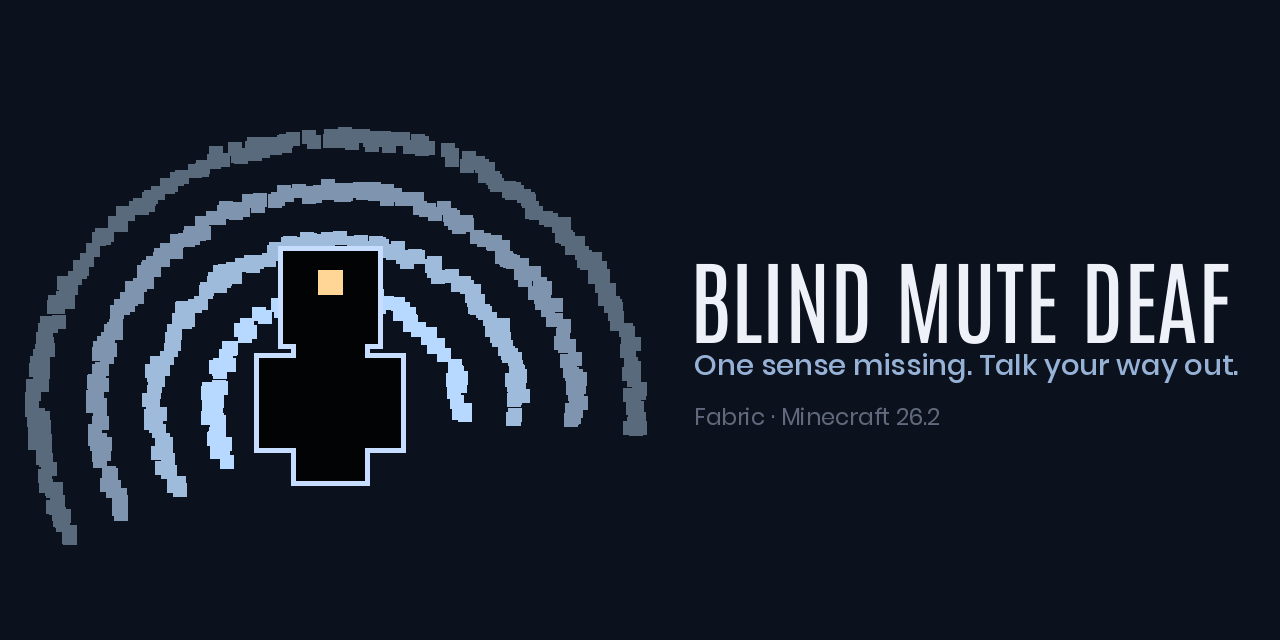
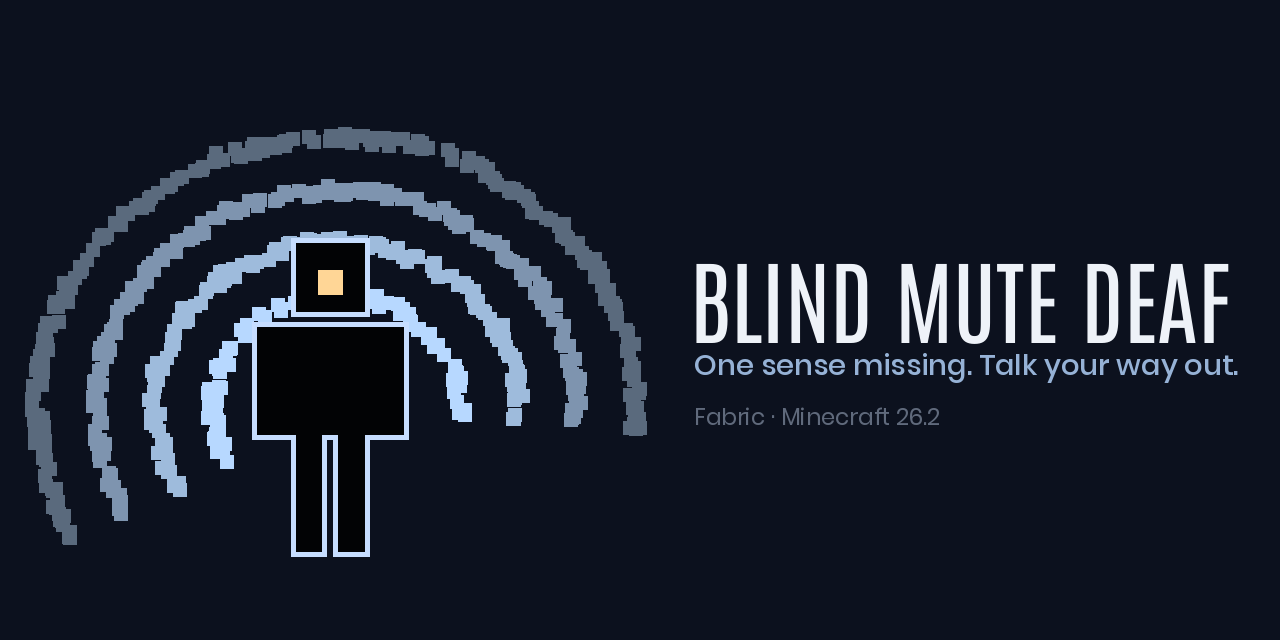
Sylwetka w proporcjach gracza MC: glowa 8x8, tulow 8x12, rece i nogi 4x12
Poprzednia byla szersza w glowie niz w tulowiu i nie miala nog - czytala sie jak krzyz.
Pol kratki szpary pod glowa, inaczej cala postac zlewa sie w pionek szachowy.

Changed region(s): [[0.1875, 0.375, 0.3438, 0.875]]

diff --git a/tools/make_art.py b/tools/make_art.py
@@ -33,8 +33,20 @@ ZRODLO = (255, 214, 150)     # jedyny cieply punkt na calej grafice - oko samo d
 ZIARNO = 11                  # wybrane z kilkunastu; reszta ukladala sie w rowniejsze, nudniejsze luki
 
 FRONTY = ((95, 255), (140, 220), (185, 175), (230, 125))   # (promien, jasnosc)
-# Blokowa postac: glowa, tulow, dwie rece. Wspolrzedne wzgledem srodka.
-CZESCI = ((-40, -118, 40, -40), (-30, -40, 30, 66), (-58, -36, -30, 40), (30, -36, 58, 40))
+# Postac w proporcjach modelu gracza z Minecrafta, liczonych w pikselach skina:
+# glowa 8x8, tulow 8x12, rece i nogi po 4x12 - czyli 16 szerokosci na 32 wysokosci.
+# Wczesniej glowa byla szersza od tulowia i brakowalo nog, przez co sylwetka czytala sie
+# jak krzyz, a nie jak gracz.
+U = 7.5                                                    # piksel skina w pikselach ikony
+CZESCI = tuple((x0 * U, y0 * U, x1 * U, y1 * U) for x0, y0, x1, y1 in (
+    (-4, -16.6, 4, -8.6),  # glowa - odsunieta od barkow o pol kratki, inaczej cala sylwetka
+                           # zlewa sie w pionek szachowy; ta szpara robi z niej gracza
+    (-4, -8, 4, 4),        # tulow
+    (-8, -8, -4, 4),       # lewa reka
+    (4, -8, 8, 4),         # prawa reka
+    (-4, 4, -0.4, 16),     # lewa noga (szczelina miedzy nogami czyta sie i w miniaturze)
+    (0.4, 4, 4, 16),       # prawa noga
+))
 
 
 def fala(rys, cx, cy, skala=1.0, ziarno=ZIARNO):
